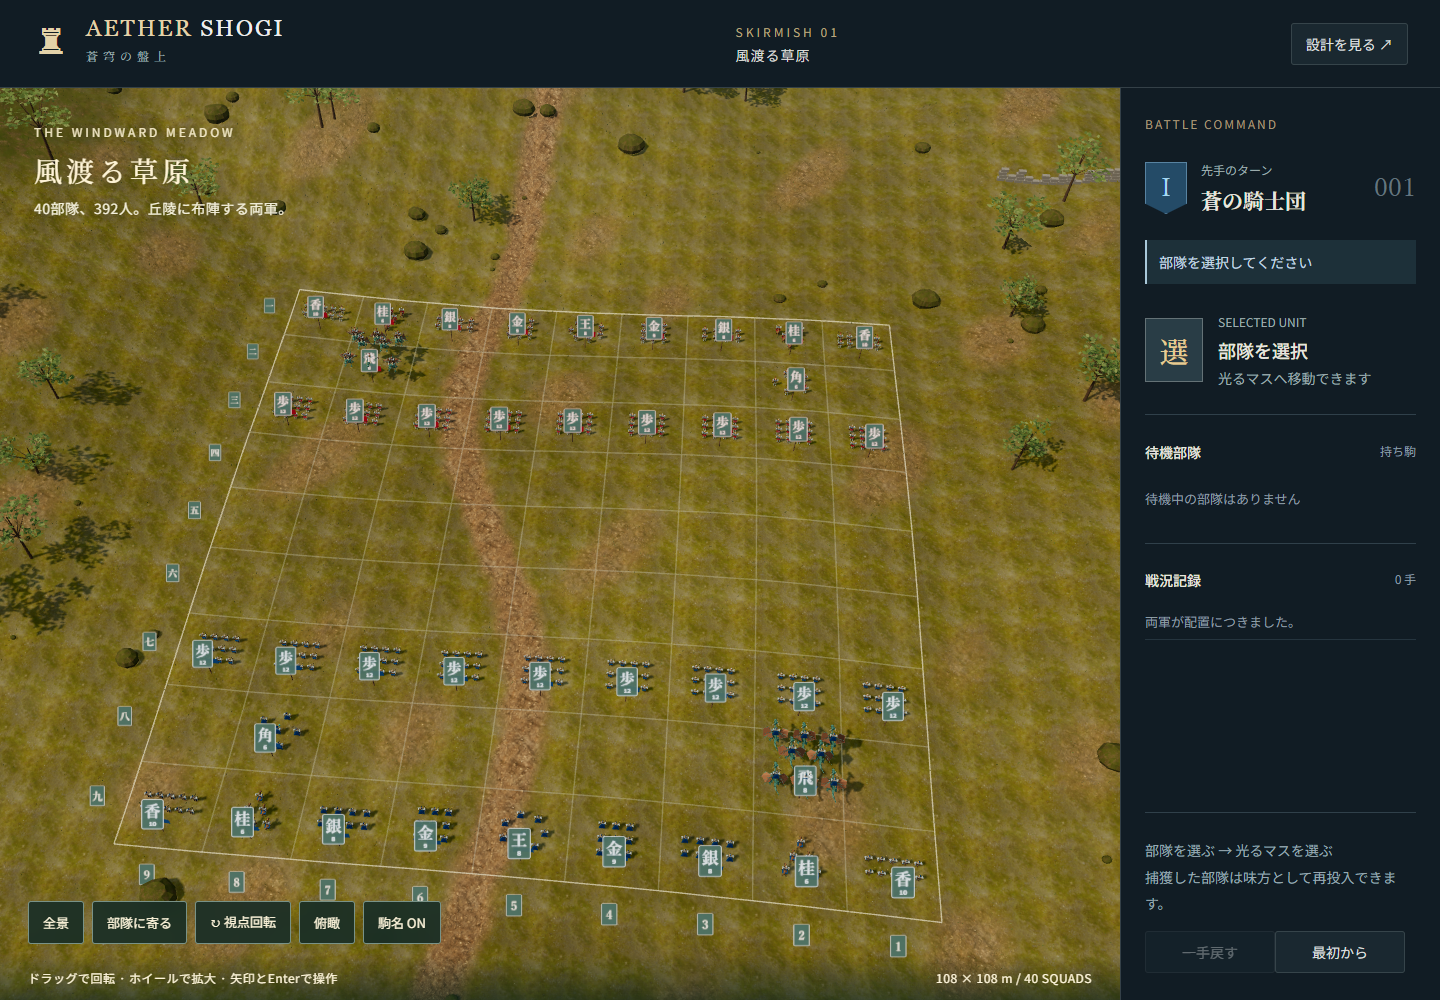
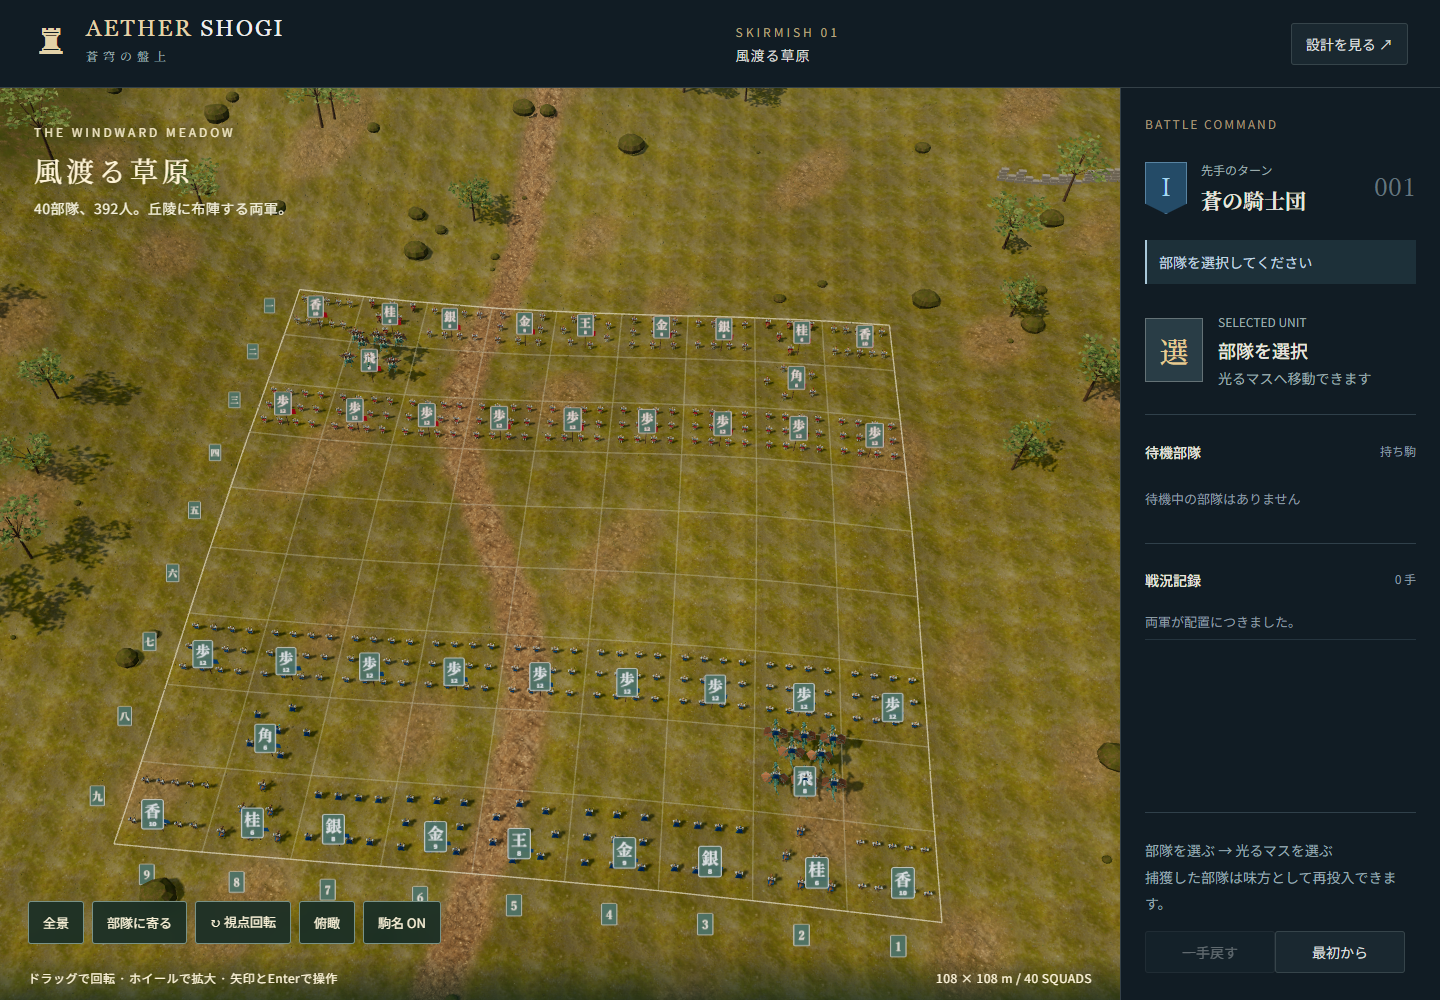
Spread squad formations across their battlefield cells

diff --git a/dist/battlefield.js b/dist/battlefield.js
@@ -165,7 +165,7 @@ export async function createBattlefield(canvas,onPick) {
     camera.lookAt(target);
     for(const fx of [...effects]){const f=Math.min(1,(t-fx.start)/fx.duration);fx.update(f);if(f===1){effects.splice(effects.indexOf(fx),1);fx.done();}}
     const changed=armyView.update(time,camera,busy);
-    for(const s of instances){s.banner.position.set(s.x,h(s.x,s.z),s.z+3.6);s.banner.scale.setScalar(s.scale??1);s.flag.rotation.y=reducedMotion?0:Math.sin(time*2+s.cell)*.10;const badgeScale=(mobile?1.5:1)*Math.min(1,camera.position.distanceTo(s.banner.position)/140);s.badge.scale.set(3.4*badgeScale,4.25*badgeScale,1);}
+    for(const s of instances){const flagX=s.x+(SQUADS[s.piece.t].bannerOffsetX??0);s.banner.position.set(flagX,h(flagX,s.z+3.6),s.z+3.6);s.banner.scale.setScalar(s.scale??1);s.flag.rotation.y=reducedMotion?0:Math.sin(time*2+s.cell)*.10;const badgeScale=(mobile?1.5:1)*Math.min(1,camera.position.distanceTo(s.banner.position)/140);s.badge.scale.set(3.4*badgeScale,4.25*badgeScale,1);}
     if(changed&&frames%3===0)renderer.shadowMap.needsUpdate=true;
     const a=performance.now();renderer.render(scene,camera);renderMs+=performance.now()-a;frames++;lastTime=t;
   }

diff --git a/tests/browser/game.spec.js b/tests/browser/game.spec.js
@@ -111,8 +111,8 @@ test('dragon knights: eight mounted riders, close view, rook movement and dragon
   await page.waitForTimeout(1100);await page.screenshot({path:'docs/verification/dragon-knights.png'});
   const metrics=await measure(page);expect(metrics.drawCalls).toBeLessThan(500);expect(metrics.triangles).toBeLessThan(1100000);
   await writeFile('docs/verification/dragon-performance.json',JSON.stringify(metrics,null,2));
-  await page.locator('#scene').focus();await page.keyboard.press('ArrowDown');
-  for(let i=0;i<3;i++)await page.keyboard.press('ArrowLeft');await page.keyboard.press('Enter');
+  // Select another visible squad without moving the camera away from the dragon.
+  const kingBanner=await page.evaluate(()=>window.__aether.projectBanner(76));await page.mouse.click(kingBanner.x,kingBanner.y);
   await expect(page.locator('#unitname')).toHaveText('本陣');
   const flyingPoint=await page.evaluate(i=>window.__aether.projectFlying(i),rook);await page.mouse.click(flyingPoint.x,flyingPoint.y);
   await expect(page.locator('#unitname')).toHaveText('竜騎士隊');

diff --git a/docs/squad-scale.md b/docs/squad-scale.md
@@ -19,7 +19,9 @@
 
 飛車はドラゴンに槍を持つ騎手が乗る竜騎士隊。角、翼膜、尾、鞍、手綱を備える。地上約3.5mを基準に中列だけ1.3m高く配置し、待機中も羽ばたき・上下動・尾の動きが続く。移動中も飛行を維持し、地面の影と旗をマスの目印にする。空中のドラゴン本体からも所属部隊を選択できる。成ると騎手とドラゴンの頭部の金装飾を追加する。
 
-初期配置は40部隊・392人。スマホ幅では各部隊を6人、合計240人で表現する。省略表示でも部隊の構成人数、移動能力、持ち駒数は変わらない。UIに部隊名・人数・隊形を表示する。
+地上部隊はマスの幅と奥行きを広く使う配置とした。兵士の中心点間で横7.3〜8.4m、奥行5.8〜7.8mが目安。歩兵は横8.1m×奥行6.8m、長槍は8.4m×5.8m、騎兵は7.6m×7.0m。護衛の輪も広げ、隊形ごとの特徴を維持する。装備を含む静止モデルが12m四方に収まることを確認している。
+
+初期配置は40部隊・392人。スマホ幅では各部隊を6人、合計240人で表現する。省略時も配置順の両端を含め、マスの広さを使った隊列にする。省略表示でも部隊の構成人数、移動能力、持ち駒数は変わらない。UIに部隊名・人数・隊形を表示する。
 
 - 1マス12m、対局範囲は108×108m。従来の14.4m四方から一辺7.5倍。
 - 周辺の地形は480×480m。対局範囲の外に木、岩、石積みの遺構を配置。
@@ -28,7 +30,7 @@
 
 ## 地形と質感
 
-Blenderの連続した地面メッシュから、兵士地上部隊の足元、飛行部隊の基準高度、線・ハイライトの高さを求める。各マス中央の高低差は約4.86m。対局範囲は緩い丘陵で、周囲の丘はさらに高い。
+Blenderの連続した地面メッシュから、地上部隊の足元、飛行部隊の基準高度、線・ハイライトの高さを求める。各マス中央の高低差は約4.86m。対局範囲は緩い丘陵で、周囲の丘はさらに高い。
 
 Poly Havenの草・乾いた土・岩の1Kテクスチャ9枚を同梱。各素材の色、法線、粗さを小道・高さ・位置に応じて混ぜる。草は縮尺と回転の異なる画像を重ね、繰り返しを弱める。枝と葉で構成した木、草、小石、岩、石積み、日光と距離による霞を加えた。
 

diff --git a/docs/implementation-report.md b/docs/implementation-report.md
@@ -35,9 +35,9 @@ WindowsのヘッドレスChromeで各90フレームを採取した参考値。14
 
 | 表示 | 人数 | 詳細表示の部隊 | 描画呼出 | 三角形 | 平均フレーム間隔 | 95%点 |
 | --- | ---: | ---: | ---: | ---: | ---: | ---: |
-| PC全景 | 392 | 0 | 186 | 554,891 | 13.28ms | 13.4ms |
-| PC接近 | 392 | 24 | 168 | 837,929 | 13.22ms | 13.4ms |
-| スマホ幅・全景 | 240 | 0 | 190 | 474,135 | 13.22ms | 13.5ms |
+| PC全景 | 392 | 0 | 186 | 554,891 | 13.27ms | 13.4ms |
+| PC接近 | 392 | 24 | 166 | 837,903 | 13.22ms | 13.4ms |
+| スマホ幅・全景 | 240 | 0 | 190 | 474,135 | 13.29ms | 13.5ms |
 
 計測ファイル： [全景](verification/desktop-performance.json)、[接近](verification/close-performance.json)、[スマホ幅](verification/mobile-performance.json)。実行条件によって値は変わる。自動テストはPC110万三角形、スマホ全景60万三角形、500描画呼出を上限として確認する。
 
@@ -74,3 +74,9 @@ WindowsのヘッドレスChromeで各90フレームを採取した参考値。14
 Chromeで8mまでのホイール拡大、小幅の縮小、飛行部隊への注視、地面との距離、全景への復帰を確認。スマホ画面のエミュレーションでは2点タッチを送信し、ピンチ拡大で8mに達して全景に戻れることを確認した。既存のPC操作・竜騎士操作のブラウザテスト2件も成功。
 
 ![最大ズームで見る竜騎士](verification/dragon-zoom.png)
+
+## 2026-09-06：マスを広く使う兵士配置
+
+歩兵の中心点間の幅を4.95mから8.1m、奥行きを3.7mから6.8mへ拡大。長槍、騎兵、剣士、近衛、魔導士と本陣の護衛も、兵種ごとの隊形を保ちながら広げた。スマホの6人表示は配置順の両端を含むように変更した。後列中央にも兵士がいる騎兵・近衛は旗を横へずらし、兵士と旗竿が重ならないようにした。
+
+既存の7件のテスト、アセット検証、5件のブラウザテストが成功。追加の確認で、全8兵種について詳細モデル・遠景モデル・PC配置・スマホ配置の実際のGLB境界を調べ、武器と装備を含む静止時の配置が12mのマス内に収まることを確認した。上記の全景・接近・スマホの画面と計測を更新した。
